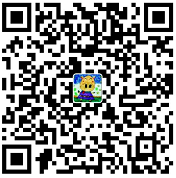
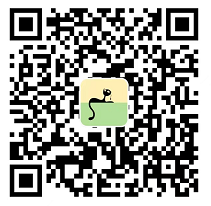
update pay img

diff --git a/themes/cleanwhite/layouts/partials/reward.html b/themes/cleanwhite/layouts/partials/reward.html
@@ -11,7 +11,7 @@
 <div class="zs-modal-box">
 	<div class="zs-modal-head">
 		<button type="button" class="close">×</button>
-		<span class="author"><a href="{{ .Site.BaseURL }}"><img src="{{ "img/favicon.png" | relURL}}" />{{ .Site.Title }}</a></span>
+		<span class="author"><a href="{{ .Site.BaseURL }}"><img src="{{ "img/avatar.jpg" | relURL}}" />{{ .Site.Title }}</a></span>
         {{ if .Site.Params.reward_guide }}
 	        <p class="tip"><i></i><span>{{ .Site.Params.reward_guide }}</span></p>
 		{{ else }}
